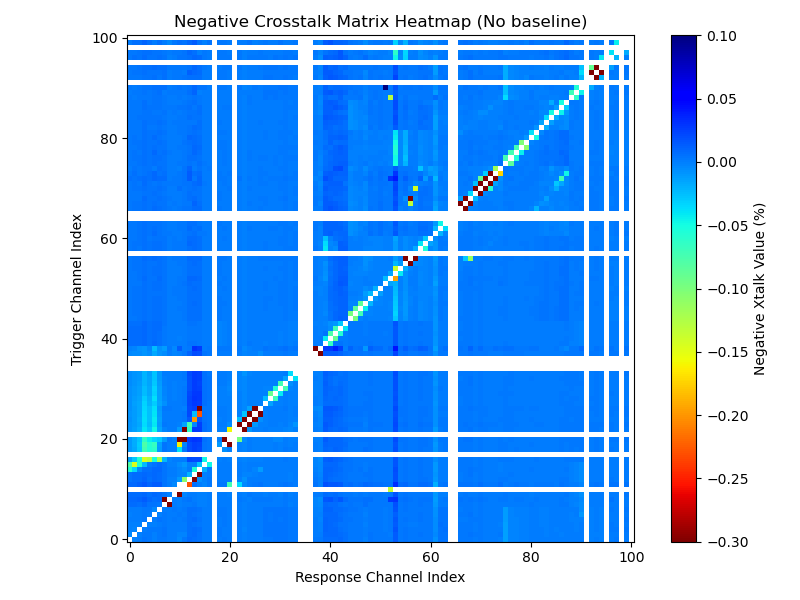
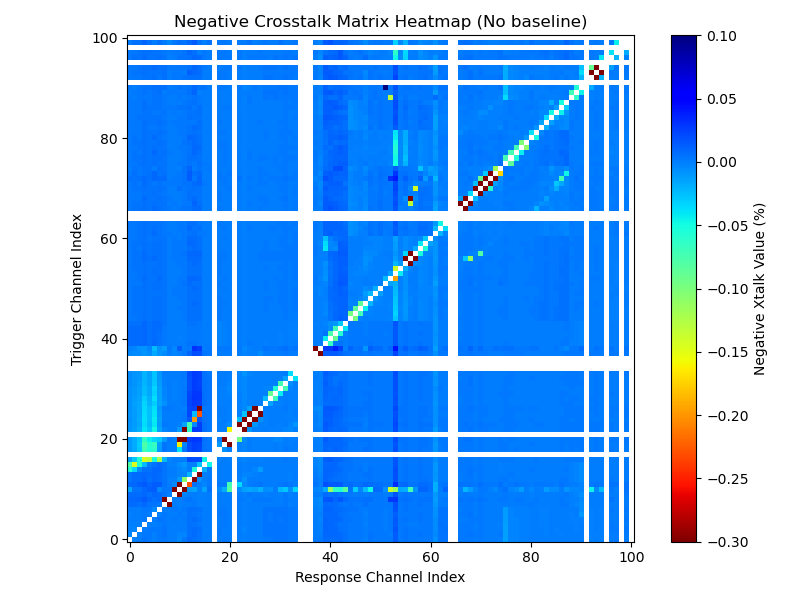
Got the perfect final result

Changed region(s): [[0.1562, 0.81, 0.7812, 0.84], [0.1562, 0.42, 0.7812, 0.45]]

diff --git a/scripts/histogram_fitter.py b/scripts/histogram_fitter.py
@@ -33,16 +33,25 @@ for j2 in range(101):
 
     for label, counts, bins in [("neg", neg_counts, neg_bins), ("pos", pos_counts, pos_bins)]:
         total_events = np.sum(counts)
-        if total_events < 100:
-            # Too few events to fit reliably
-            result = dict(success=False, reason="low_stats", A=np.nan, mu=np.nan, sigma=np.nan, total_events=total_events)
+        if total_events == 0:
+            # No event at all, skipping.
+            result = dict(success=False, reason="no_stats", A=np.nan, mu=np.nan, sigma=np.nan, total_events=total_events)
             np.savez(OUT_DIR / f"fit_{label}_{j1}_{j2}.npz", **result)
-            print(f"{label}_{j1}_{j2} has low_stats")
+            print(f"{label}_{j1}_{j2} has no stats")
             continue
-
+            
         x = 0.5 * (bins[1:] + bins[:-1])
         y = counts
 
+        if total_events < 100:
+            # Too few stats to fit with Gaussian, trace back to taking mean.
+            mu = np.sum(x * y) / total_events
+            sigma = np.sqrt(np.sum(y * (x - mu)**2) / total_events)
+            result = dict(success=True, reason="low_stats", A=np.nan, mu=mu, sigma=sigma, total_events=total_events)
+            np.savez(OUT_DIR / f"fit_{label}_{j1}_{j2}.npz", **result)
+            print(f"{label}_{j1}_{j2} has low stats, tracing back to taking mean.")
+            continue          
+                        
         # Smooth counts to avoid spikes due to noise
         smooth_y = uniform_filter1d(y, size=3)
         peak_idx = np.argmax(smooth_y)

diff --git a/scripts/fit_inspector.py b/scripts/fit_inspector.py
@@ -13,7 +13,9 @@ parser.add_argument(
 )
 args = parser.parse_args()
 
-reason_dict = {"low_stats" : "low_stats",
+reason_dict = {None : None,
+               "no_stats" : "no_stats",
+               "low_stats" : "low_stats",
               "delta" : "Optimal parameters not found: Number of calls to function has reached maxfev = 800.",
               "sharp" : "ok but with insufficient points"}
 actual_reason = reason_dict[args.reason]
@@ -115,3 +117,9 @@ plt.ylabel('Trigger Channel Index')
 plt.title('Positive Crosstalk Matrix Heatmap')
 plt.tight_layout()
 plt.savefig(OUT_DIR / "Pos_xtk_map_fitted.png")
+
+if actual_reason:
+    print("negative fail list:\n")
+    print(neg_fail_list)
+    print("positive fail list:\n")
+    print(pos_fail_list)
